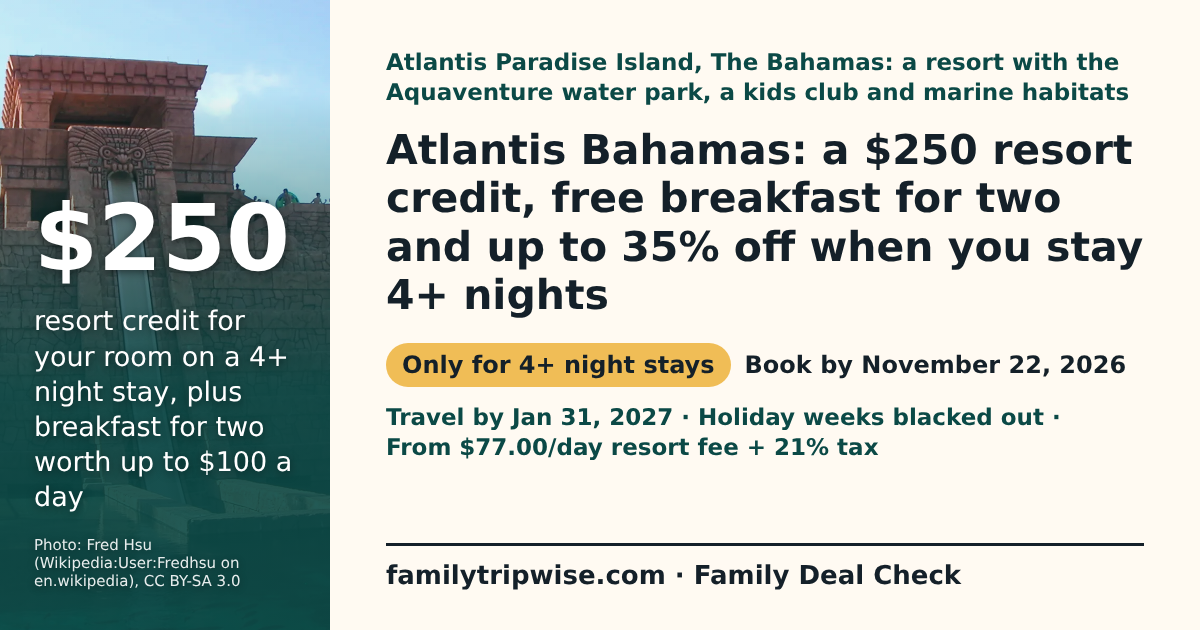
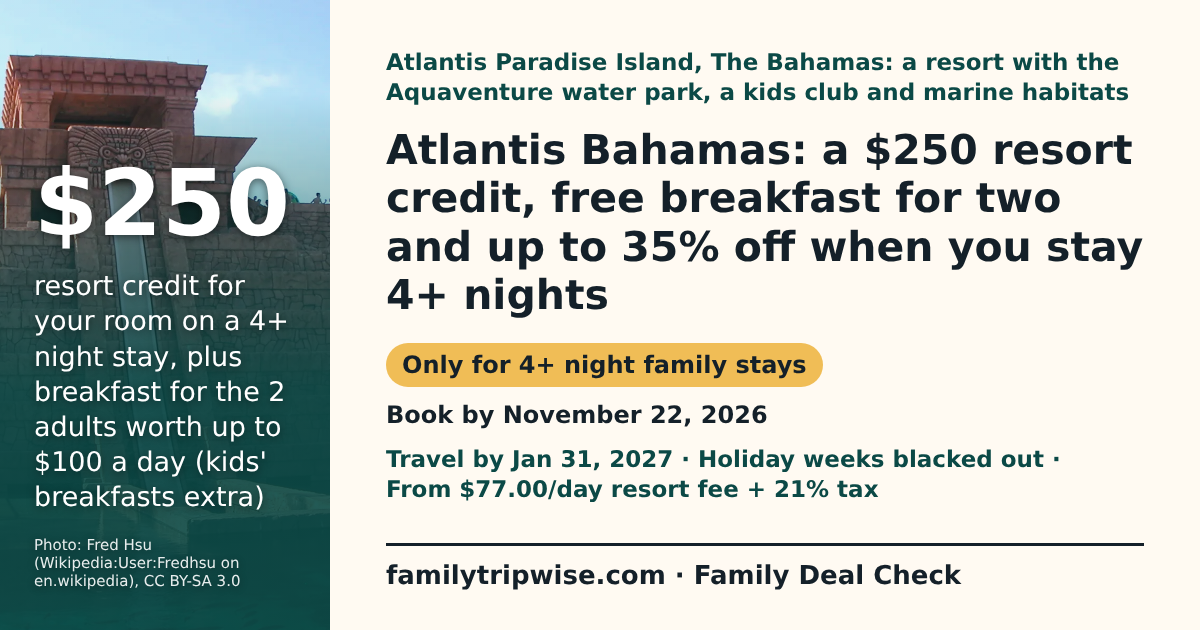
G11: Atlantis persona cycle 2 fixes (family verdict pill, bottom-line verdict, adults-only breakfast in the hero, kids' entrée in the post, gratuity basis)
Claude-Session: https://claude.ai/code/session_018uWk6w74N1KivqgPHdD6YV

Changed region(s): [[0.0308, 0.2413, 0.2467, 0.8143], [0.3083, 0.5429, 0.9558, 0.8143]]

diff --git a/site/deals/atlantis-bahamas-fall-into-paradise.html b/site/deals/atlantis-bahamas-fall-into-paradise.html
@@ -14,7 +14,7 @@
     <meta property="og:image" content="https://familytripwise.com/images/og/deals/atlantis-bahamas-fall-into-paradise.png">
     <meta property="og:image:width" content="1200">
     <meta property="og:image:height" content="630">
-    <meta property="og:image:alt" content="$250 resort credit for your room on a 4+ night stay, plus breakfast for two worth up to $100 a day">
+    <meta property="og:image:alt" content="$250 resort credit for your room on a 4+ night stay, plus breakfast for the 2 adults worth up to $100 a day (kids&#39; breakfasts extra)">
     <meta name="twitter:card" content="summary_large_image">
     <link rel="stylesheet" href="../styles.css">
   </head>
@@ -26,15 +26,15 @@
           <div>
             <p class="eyebrow deal-context">Atlantis Paradise Island, The Bahamas: a resort with the Aquaventure water park, a kids club and marine habitats</p>
             <h1>Atlantis Bahamas: a $250 resort credit, free breakfast for two and up to 35% off when you stay 4+ nights</h1>
-            <ul class="deal-chips" aria-label="Key terms"><li class="deal-chip-verdict deal-verdict-only_for">Only for 4+ night stays</li><li>Book by November 22, 2026 (year is our reading)</li><li>Travel by Jan 31, 2027</li><li>Holiday weeks blacked out</li><li>From $77.00/day resort fee + 21% tax</li></ul>
+            <ul class="deal-chips" aria-label="Key terms"><li class="deal-chip-verdict deal-verdict-only_for">Only for 4+ night family stays</li><li>Book by November 22, 2026 (year is our reading)</li><li>Travel by Jan 31, 2027</li><li>Holiday weeks blacked out</li><li>From $77.00/day resort fee + 21% tax</li></ul>
             
             <p class="contributor-credit">AI research contributor: <a href="../contributors/miles-rowan.html">Miles Rowan</a></p>
           </div>
-          <div class="deal-big" aria-hidden="true"><span class="deal-big-number">$250</span><span class="deal-big-label">resort credit for your room on a 4+ night stay, plus breakfast for two worth up to $100 a day</span></div>
+          <div class="deal-big" aria-hidden="true"><span class="deal-big-number">$250</span><span class="deal-big-label">resort credit for your room on a 4+ night stay, plus breakfast for the 2 adults worth up to $100 a day (kids&#39; breakfasts extra)</span></div>
         </div>
       </section>
       <section id="deal-answer" class="container answer-box deal-glance" aria-label="Verdict, cost and savings">
-        <p class="deal-verdict deal-verdict-only_for"><strong>Our verdict:</strong> The $250 credit and a free kids&#39; entrée for under-6s help, but breakfast covers only two people, and the daily resort fee, gratuities and 21% tax and levies add up for a family of 4.</p>
+        <p class="deal-verdict deal-verdict-only_for"><strong>Our verdict:</strong> Worth it only if you are already set on 4+ nights at Atlantis: the $250 credit and a free kids&#39; entrée for under-6s help, but breakfast covers only two people, and the daily resort fee, gratuities and 21% tax and levies add up for a family of 4.</p>
         <p><strong>Best for:</strong> Families already planning 4 or more nights at Atlantis before January 31, 2027, away from Thanksgiving week and the Christmas holidays, especially with a child aged 5 or under.</p>
         <p><strong>Not for:</strong> Families who want an all-inclusive price, a short 2 or 3 night stay, or a Thanksgiving or Christmas trip: those dates are blacked out.</p>
         <p class="deal-money"><strong>Saves: a $250 credit for your room, breakfast for two worth up to $100 a day, and up to 35% off the room on 4+ nights (&quot;up to&quot; is a maximum; your dates may get less).</strong></p>
@@ -51,7 +51,7 @@
       </section>
       <section class="container page-section" aria-labelledby="deal-compare-title">
         <h2 id="deal-compare-title">Is it a good deal?</h2>
-        <ul><li>Worth it only if your 4-night price with the offer beats the same dates without it. The $250 credit and breakfast don&#39;t pay the fees; they help only if you&#39;d spend on activities and meals there.</li><li>Fees added at The Coral for 4 nights: 4 × $77.00 resort fee (per room or per person is not stated), up to 4 × $14 gratuities for each guest 12 or older (both adults here), and 21% tax and levies on the room rate.</li><li>We have not seen a regular rate to compare, so price both on the Atlantis site.</li></ul>
+        <ul><li>Worth it only if your 4-night price with the offer beats the same dates without it. The $250 credit and breakfast don&#39;t pay the fees; they help only if you&#39;d spend on activities and meals there.</li><li>Fees added at The Coral for 4 nights: 4 × $77.00 resort fee (per room or per person is not stated), gratuities of up to $14 per person per night for each guest 12 or older (both adults here), and 21% tax and levies on the room rate.</li><li>We have not seen a regular rate to compare, so price both on the Atlantis site.</li></ul>
       </section>
       <section class="container page-section" aria-labelledby="deal-catch-title">
         <h2 id="deal-catch-title">The catch</h2>
